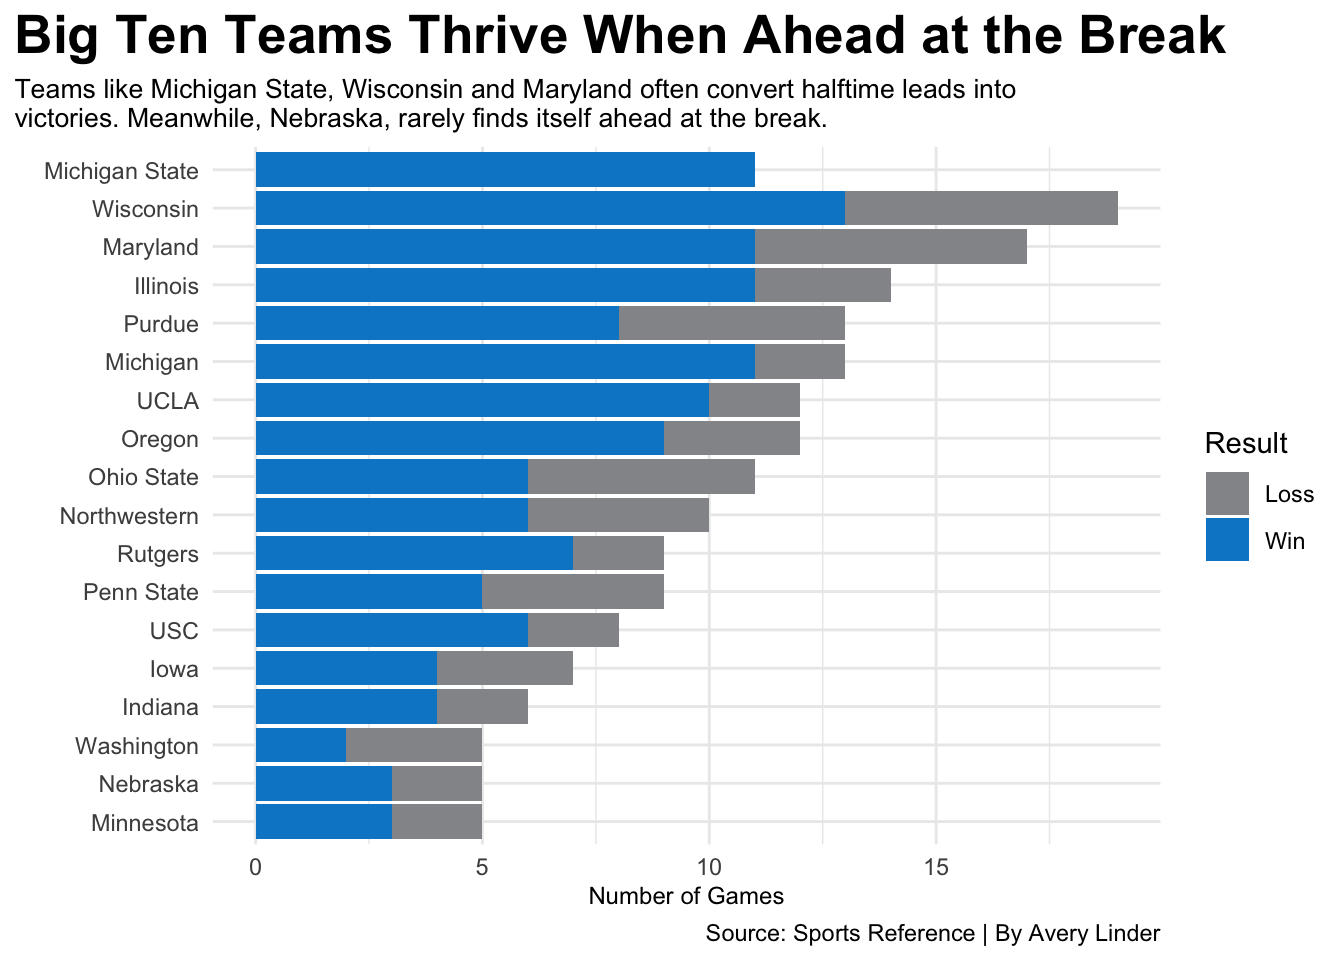
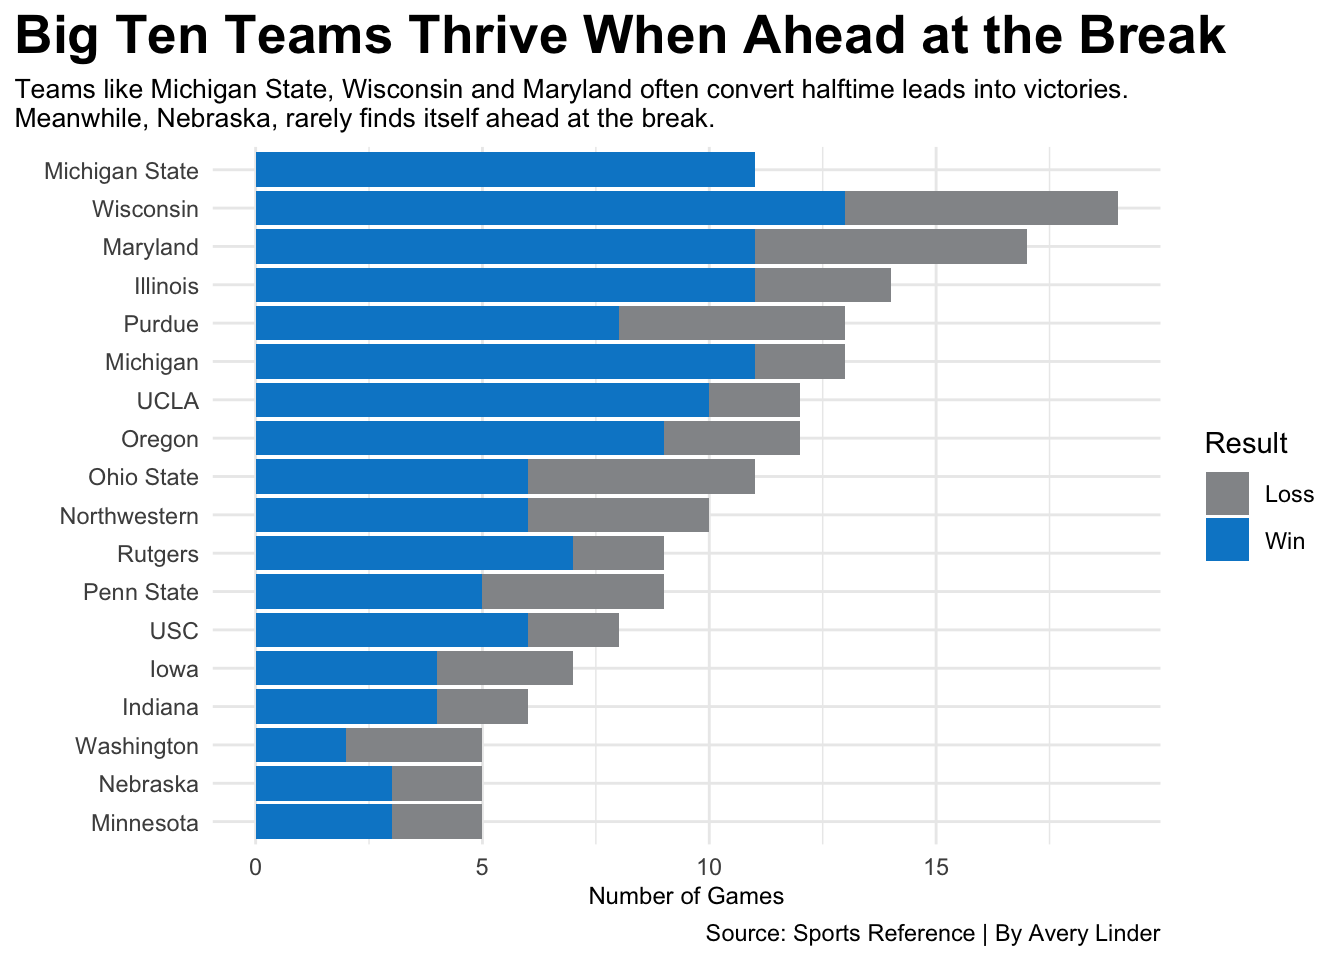
Final 3

Changed region(s): [[0.0, 0.0938, 0.5938, 0.1562], [0.7812, 0.0625, 0.8438, 0.125]]

diff --git a/posts/does-leading-at-halftime-predict-winning/index.html b/posts/does-leading-at-halftime-predict-winning/index.html
@@ -223,7 +223,7 @@ pre > code.sourceCode > span > a:first-child::before { text-decoration: underlin
 <span id="cb1-18"><a href="#cb1-18" aria-hidden="true" tabindex="-1"></a>    <span class="at">x=</span><span class="st">""</span>, </span>
 <span id="cb1-19"><a href="#cb1-19" aria-hidden="true" tabindex="-1"></a>    <span class="at">y=</span><span class="st">"Number of Games"</span>, </span>
 <span id="cb1-20"><a href="#cb1-20" aria-hidden="true" tabindex="-1"></a>    <span class="at">title=</span><span class="st">"Big Ten Teams Thrive When Ahead at the Break"</span>, </span>
-<span id="cb1-21"><a href="#cb1-21" aria-hidden="true" tabindex="-1"></a>    <span class="at">subtitle=</span><span class="st">"Teams like Michigan State, Wisconsin and Maryland often convert halftime leads into </span><span class="sc">\n</span><span class="st">victories. Meanwhile, Nebraska, rarely finds itself ahead at the break."</span>, </span>
+<span id="cb1-21"><a href="#cb1-21" aria-hidden="true" tabindex="-1"></a>    <span class="at">subtitle=</span><span class="st">"Teams like Michigan State, Wisconsin and Maryland often convert halftime leads into victories. </span><span class="sc">\n</span><span class="st">Meanwhile, Nebraska, rarely finds itself ahead at the break."</span>, </span>
 <span id="cb1-22"><a href="#cb1-22" aria-hidden="true" tabindex="-1"></a>    <span class="at">caption=</span><span class="st">"Source: Sports Reference | By Avery Linder"</span></span>
 <span id="cb1-23"><a href="#cb1-23" aria-hidden="true" tabindex="-1"></a>    ) <span class="sc">+</span></span>
 <span id="cb1-24"><a href="#cb1-24" aria-hidden="true" tabindex="-1"></a>  <span class="fu">scale_fill_manual</span>(<span class="at">values=</span><span class="fu">c</span>(<span class="st">"#939598"</span>, <span class="st">"#0088CE"</span>)) <span class="sc">+</span> </span>
@@ -292,8 +292,8 @@ pre > code.sourceCode > span > a:first-child::before { text-decoration: underlin
 <span id="cb2-41"><a href="#cb2-41" aria-hidden="true" tabindex="-1"></a>  <span class="fu">theme_minimal</span>() <span class="sc">+</span></span>
 <span id="cb2-42"><a href="#cb2-42" aria-hidden="true" tabindex="-1"></a>  <span class="fu">theme</span>(</span>
 <span id="cb2-43"><a href="#cb2-43" aria-hidden="true" tabindex="-1"></a>    <span class="at">plot.title.position =</span> <span class="st">"plot"</span>,</span>
-<span id="cb2-44"><a href="#cb2-44" aria-hidden="true" tabindex="-1"></a>    <span class="at">plot.title =</span> <span class="fu">element_text</span>(<span class="at">size =</span> <span class="dv">19</span>, <span class="at">face =</span> <span class="st">"bold"</span>),</span>
-<span id="cb2-45"><a href="#cb2-45" aria-hidden="true" tabindex="-1"></a>    <span class="at">plot.subtitle =</span> <span class="fu">element_text</span>(<span class="at">size=</span><span class="dv">10</span>),</span>
+<span id="cb2-44"><a href="#cb2-44" aria-hidden="true" tabindex="-1"></a>    <span class="at">plot.title =</span> <span class="fu">element_text</span>(<span class="at">size =</span> <span class="dv">18</span>, <span class="at">face =</span> <span class="st">"bold"</span>),</span>
+<span id="cb2-45"><a href="#cb2-45" aria-hidden="true" tabindex="-1"></a>    <span class="at">plot.subtitle =</span> <span class="fu">element_text</span>(<span class="at">size =</span> <span class="fl">9.5</span>),</span>
 <span id="cb2-46"><a href="#cb2-46" aria-hidden="true" tabindex="-1"></a>    <span class="at">axis.title =</span> <span class="fu">element_text</span>(<span class="at">size =</span> <span class="dv">9</span>), </span>
 <span id="cb2-47"><a href="#cb2-47" aria-hidden="true" tabindex="-1"></a>  )</span></code></pre></div><button title="Copy to Clipboard" class="code-copy-button"><i class="bi"></i></button></div>
 </details>
@@ -326,13 +326,13 @@ pre > code.sourceCode > span > a:first-child::before { text-decoration: underlin
 <span id="cb3-12"><a href="#cb3-12" aria-hidden="true" tabindex="-1"></a>    <span class="at">x=</span><span class="st">"Halftime Point Differential"</span>, </span>
 <span id="cb3-13"><a href="#cb3-13" aria-hidden="true" tabindex="-1"></a>    <span class="at">y=</span><span class="st">"Final Point Differential"</span>, </span>
 <span id="cb3-14"><a href="#cb3-14" aria-hidden="true" tabindex="-1"></a>    <span class="at">title=</span><span class="st">"Nebraska’s Early Game Deficits Predict Final Losses"</span>, </span>
-<span id="cb3-15"><a href="#cb3-15" aria-hidden="true" tabindex="-1"></a>    <span class="at">subtitle=</span><span class="st">"Half-time deficits often set the tone for Nebraska’s final outcomes with few games turned around in the second half."</span>, </span>
+<span id="cb3-15"><a href="#cb3-15" aria-hidden="true" tabindex="-1"></a>    <span class="at">subtitle=</span><span class="st">"Half-time deficits set the tone for Nebraska’s final outcomes with few games turned around in the second half."</span>, </span>
 <span id="cb3-16"><a href="#cb3-16" aria-hidden="true" tabindex="-1"></a>    <span class="at">caption=</span><span class="st">"Source: Sports Reference | By Avery Linder"</span></span>
 <span id="cb3-17"><a href="#cb3-17" aria-hidden="true" tabindex="-1"></a>    ) <span class="sc">+</span></span>
 <span id="cb3-18"><a href="#cb3-18" aria-hidden="true" tabindex="-1"></a>  <span class="fu">theme_minimal</span>() <span class="sc">+</span></span>
 <span id="cb3-19"><a href="#cb3-19" aria-hidden="true" tabindex="-1"></a>  <span class="fu">theme</span>(</span>
 <span id="cb3-20"><a href="#cb3-20" aria-hidden="true" tabindex="-1"></a>    <span class="at">plot.title.position =</span> <span class="st">"plot"</span>,</span>
-<span id="cb3-21"><a href="#cb3-21" aria-hidden="true" tabindex="-1"></a>    <span class="at">plot.title =</span> <span class="fu">element_text</span>(<span class="at">size =</span> <span class="dv">20</span>, <span class="at">face =</span> <span class="st">"bold"</span>),</span>
+<span id="cb3-21"><a href="#cb3-21" aria-hidden="true" tabindex="-1"></a>    <span class="at">plot.title =</span> <span class="fu">element_text</span>(<span class="at">size =</span> <span class="fl">19.5</span>, <span class="at">face =</span> <span class="st">"bold"</span>),</span>
 <span id="cb3-22"><a href="#cb3-22" aria-hidden="true" tabindex="-1"></a>    <span class="at">plot.subtitle =</span> <span class="fu">element_text</span>(<span class="at">size=</span><span class="dv">10</span>),</span>
 <span id="cb3-23"><a href="#cb3-23" aria-hidden="true" tabindex="-1"></a>    <span class="at">axis.title =</span> <span class="fu">element_text</span>(<span class="at">size =</span> <span class="dv">9</span>), </span>
 <span id="cb3-24"><a href="#cb3-24" aria-hidden="true" tabindex="-1"></a>  )</span></code></pre></div><button title="Copy to Clipboard" class="code-copy-button"><i class="bi"></i></button></div>

diff --git a/index.html b/index.html
@@ -209,7 +209,7 @@ window.Quarto = {
 
 <div class="quarto-listing quarto-listing-container-default" id="listing-listing">
 <div class="list quarto-listing-default">
-<div class="quarto-post image-right" data-index="0" data-categories="bmNhYSUyQ2JpZ3RlbiUyQ2Jhc2tldGJhbGw=" data-listing-date-sort="1763359200000" data-listing-file-modified-sort="1763145954895" data-listing-date-modified-sort="NaN" data-listing-reading-time-sort="6" data-listing-word-count-sort="1086">
+<div class="quarto-post image-right" data-index="0" data-categories="bmNhYSUyQ2JpZ3RlbiUyQ2Jhc2tldGJhbGw=" data-listing-date-sort="1763359200000" data-listing-file-modified-sort="1763146573789" data-listing-date-modified-sort="NaN" data-listing-reading-time-sort="6" data-listing-word-count-sort="1087">
 <div class="thumbnail"><a href="./posts/does-leading-at-halftime-predict-winning/index.html" class="no-external">
 
 <img loading="lazy" src="./posts/does-leading-at-halftime-predict-winning/image.png" class="thumbnail-image">
